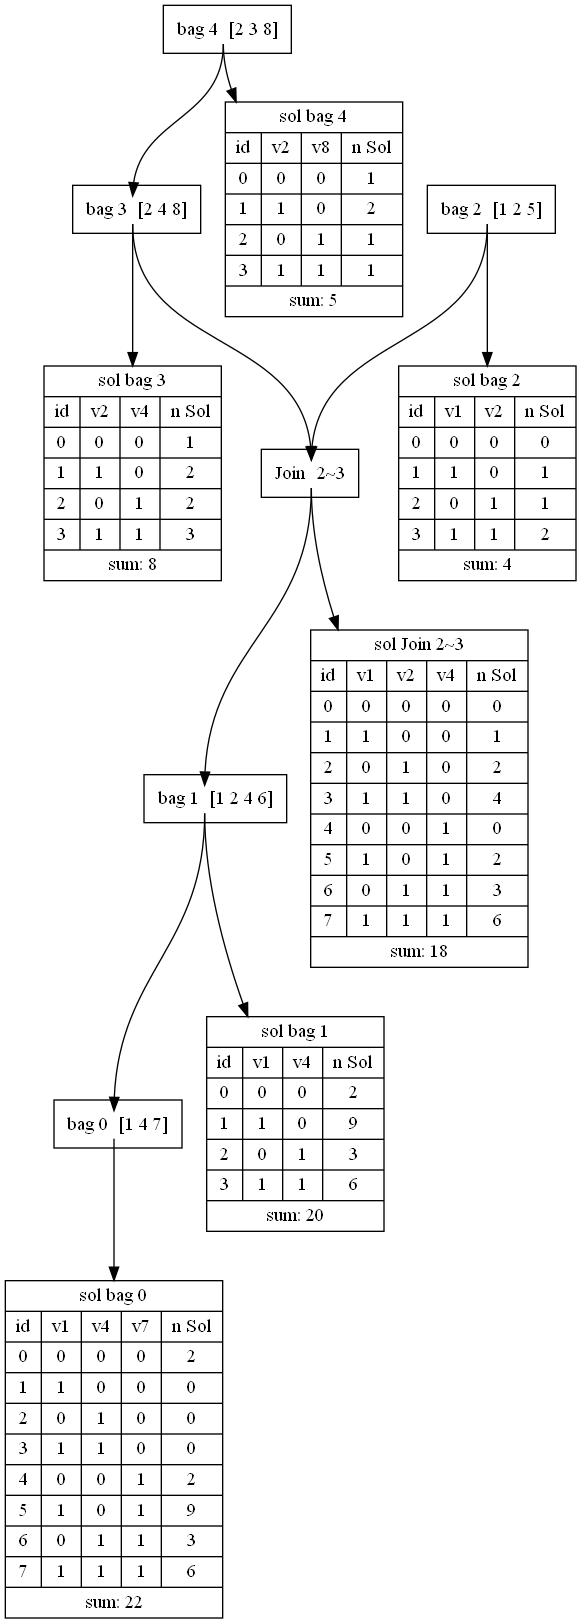
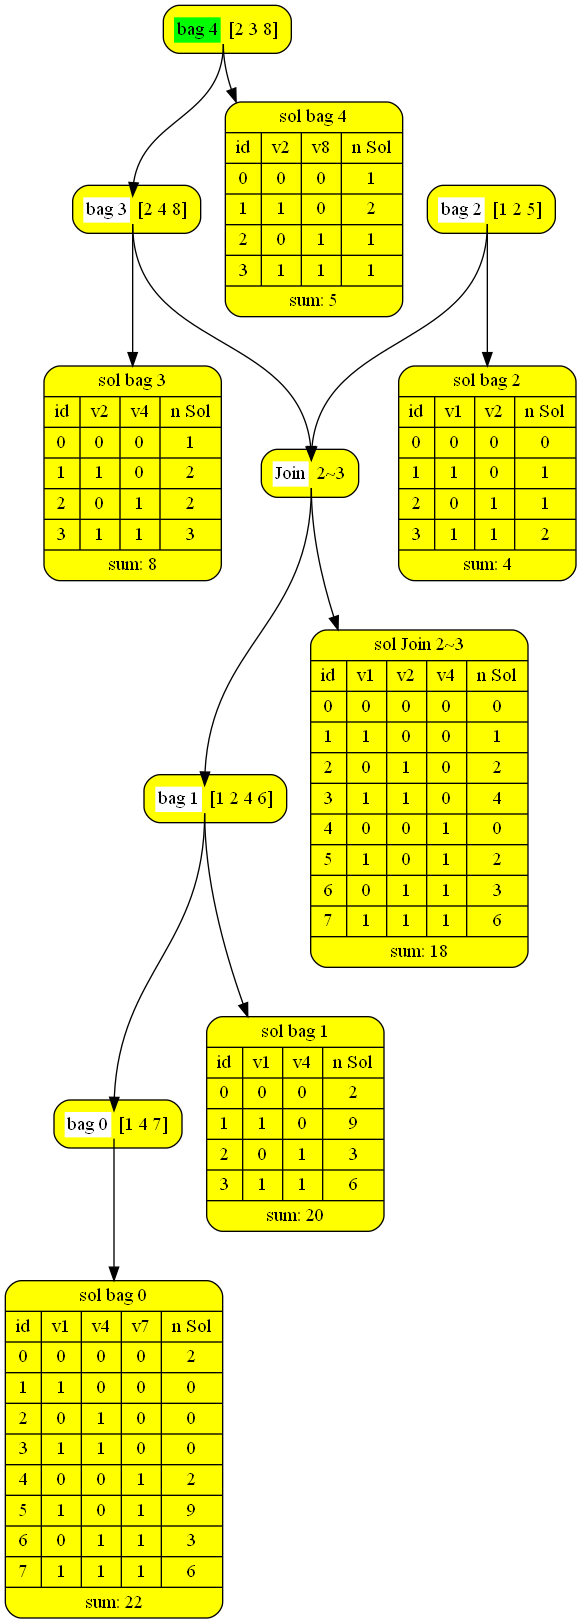
removed anchor, color example
- removed the "<anchor>" tag from solutionNode
- example with coloring of "active" nodes
- style rounded

diff --git a/satvisualization_repo/test/test_bagCreation.py b/satvisualization_repo/test/test_bagCreation.py
@@ -17,29 +17,29 @@ solutionTableFloat = [["id", 0.1], ["v1", 1.],
 
 def test_solutionNodeEmpty():
     result = gv.solutionNode([])
-    assert result == "{<anchor> empty}"
+    assert result == "{empty}"
 
 
 def test_solutionNodeEmptyTopLabel():
     result = gv.solutionNode([], "top")
-    assert result == "{<anchor> top|empty}"
+    assert result == "{top|empty}"
 
 
 def test_solutionNodeEmptyBottomLabel():
     result = gv.solutionNode([], "", "bottom")
-    assert result == "{<anchor> empty|bottom}"
+    assert result == "{empty|bottom}"
 
 
 def test_solutionNodeTranspose():
     result = gv.solutionNode(solutionTable1, "top", "bottom", transpose=True)
-    assert result == "{<anchor> top|{{id|v1|v2|v3|nSol}|{0|1|2|4|0}}|bottom}"
+    assert result == "{top|{{id|v1|v2|v3|nSol}|{0|1|2|4|0}}|bottom}"
 
 
 def test_solutionNodeFullTable():
     result = gv.solutionNode(solutionTable1)
-    assert result == "{<anchor> {{id|0}|{v1|1}|{v2|2}|{v3|4}|{nSol|0}}}"
+    assert result == "{{{id|0}|{v1|1}|{v2|2}|{v3|4}|{nSol|0}}}"
     result = gv.solutionNode(solutionTable1, "top", "bottom")
-    assert result == "{<anchor> top|{{id|0}|{v1|1}|{v2|2}|{v3|4}|{nSol|0}}|bottom}"
+    assert result == "{top|{{id|0}|{v1|1}|{v2|2}|{v3|4}|{nSol|0}}|bottom}"
 
 
 def test_solutionNodeLine():
@@ -47,13 +47,13 @@ def test_solutionNodeLine():
                      ["v2"], ["v3"],
                      ["nSol"]]
     result = gv.solutionNode(solutionTable)
-    assert result == "{<anchor> {{id}|{v1}|{v2}|{v3}|{nSol}}}"
+    assert result == "{{{id}|{v1}|{v2}|{v3}|{nSol}}}"
     result = gv.solutionNode(solutionTable, "top", "bottom")
-    assert result == "{<anchor> top|{{id}|{v1}|{v2}|{v3}|{nSol}}|bottom}"
+    assert result == "{top|{{id}|{v1}|{v2}|{v3}|{nSol}}|bottom}"
 
 
 def test_solutionNodeNumbers():
     result = gv.solutionNode(solutionTableInt)
-    assert result == "{<anchor> {{id|0}|{v1|1}|{v2|2}|{v3|4}|{nSol|0}}}"
+    assert result == "{{{id|0}|{v1|1}|{v2|2}|{v3|4}|{nSol|0}}}"
     result = gv.solutionNode(solutionTableFloat)
-    assert result == "{<anchor> {{id|0.1}|{v1|1.0}|{v2|2.2222}|{v3|4.4}|{nSol|0.1}}}"
+    assert result == "{{{id|0.1}|{v1|1.0}|{v2|2.2222}|{v3|4.4}|{nSol|0.1}}}"

diff --git a/satvisualization_repo/satvisu/graphvizSatVisu.py b/satvisualization_repo/satvisu/graphvizSatVisu.py
@@ -94,9 +94,9 @@ def main():
     _filename = 'g41Digraph'
 
     s = Digraph('structs', filename=_filename,
-                node_attr={'shape': 'rect'})
+                node_attr={'shape': 'box', 'fillcolor':'yellow', 'style':"rounded,filled"})
 
-    s.node('bag4', bagNode("bag 4", "[2 3 8]"))
+    s.node('bag4', bagNode("bag 4", "[2 3 8]", headcolor='green'))
     s.node('bag3', bagNode("bag 3", "[2 4 8]"))
     s.node('join1', bagNode("Join", "2~3"))
     s.node('bag2', bagNode("bag 2", "[1 2 5]"))
